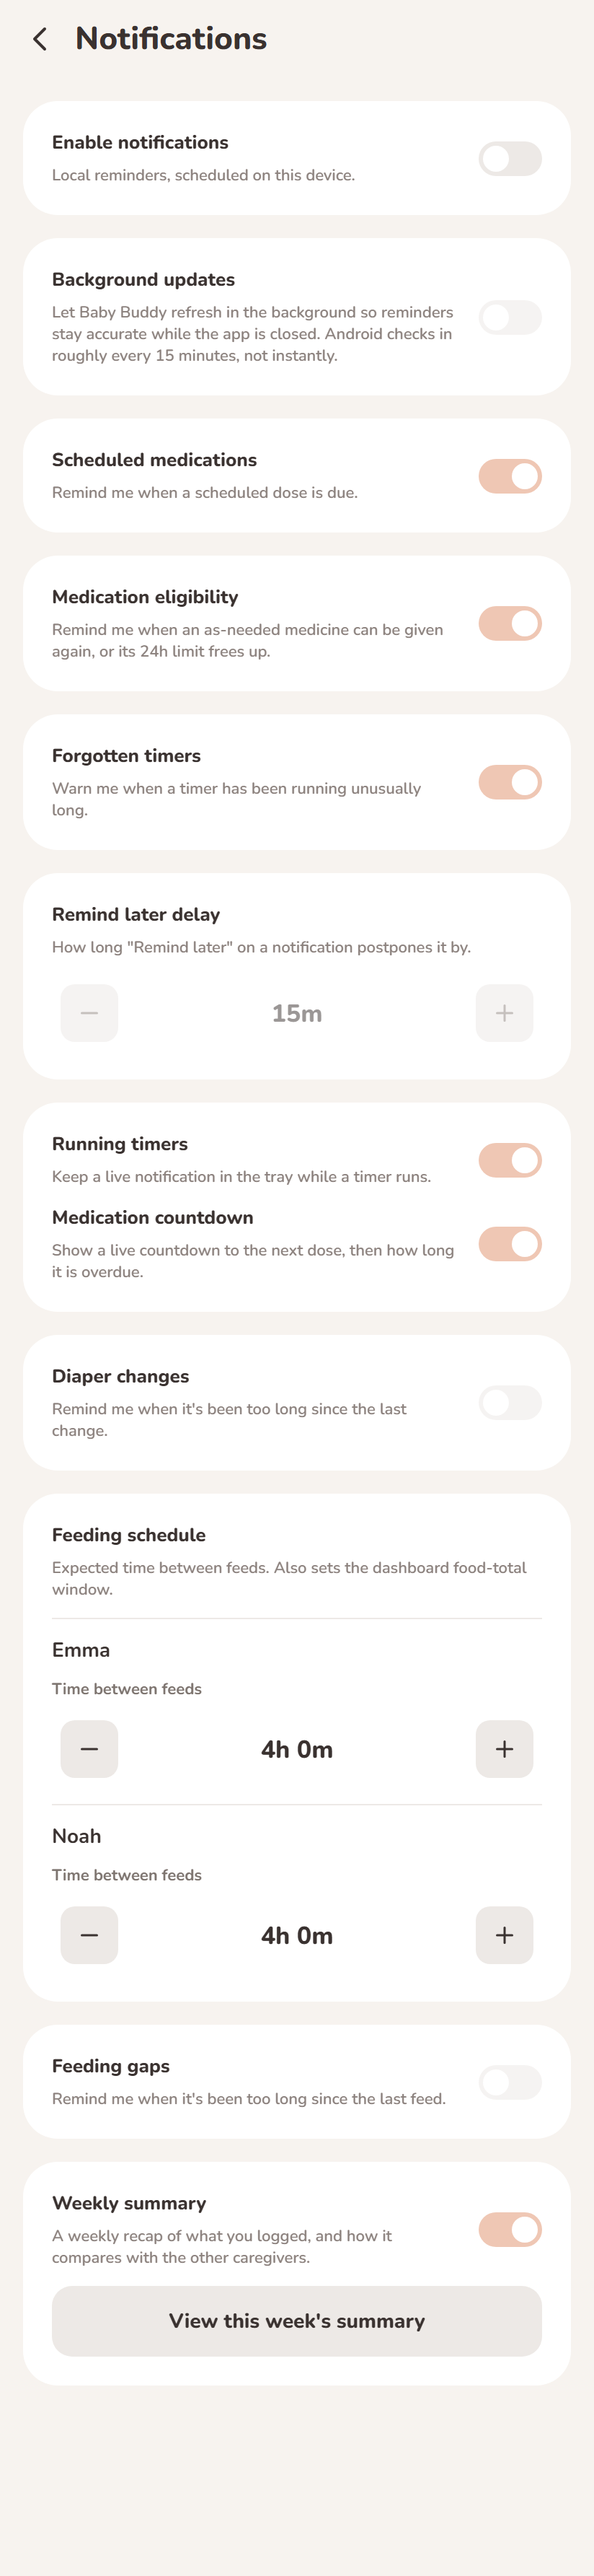
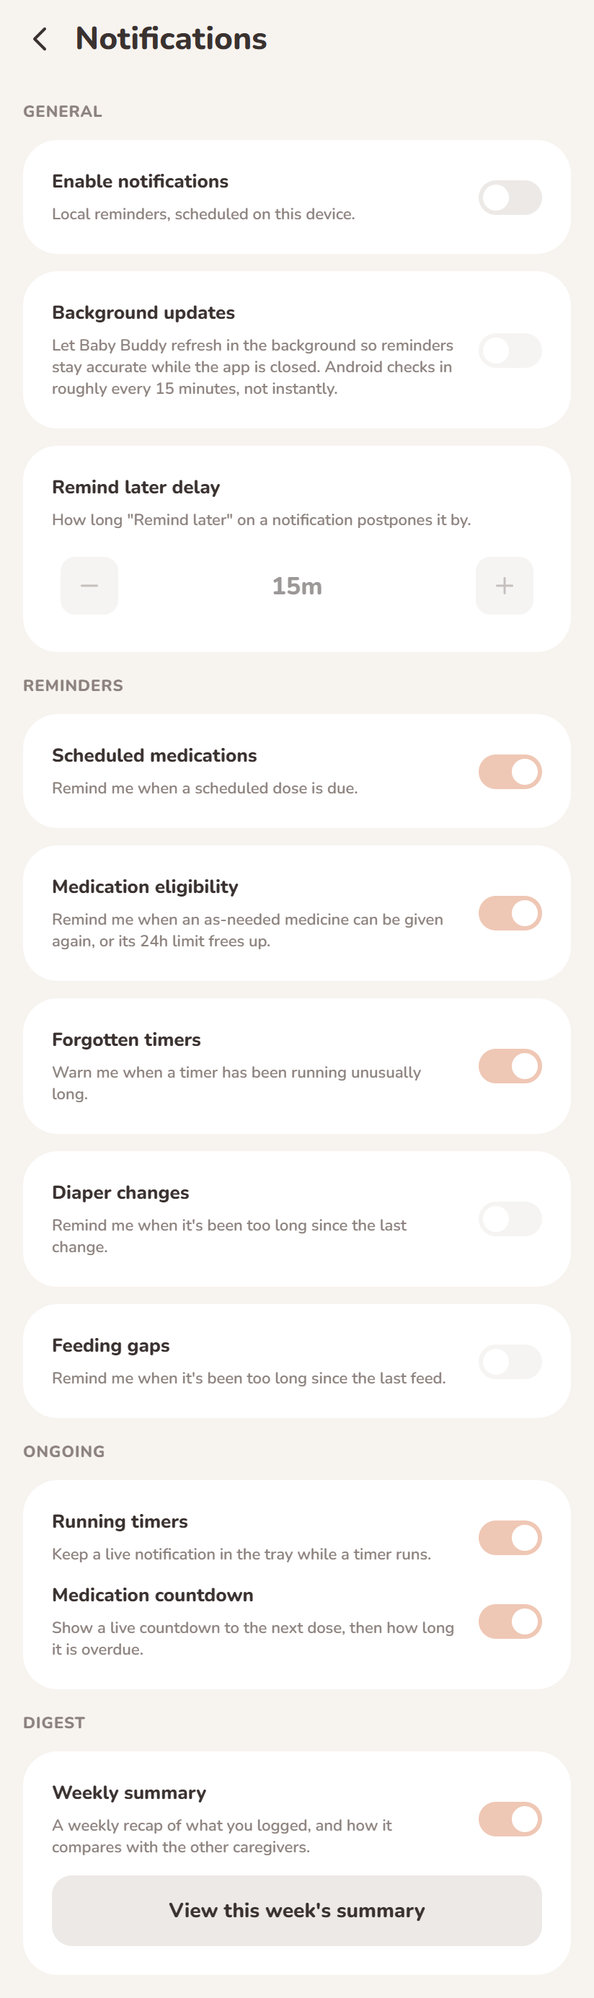
docs: regenerate settings screenshots for the new UI
Recapture the settings screenshots against the reorganized UI (light
theme, demo data): the main Settings screen (Display section), the
Notifications screen (General/Reminders/Ongoing/Digest groups), and the
retitled "Children & groups" screen. Add two new screenshots the manual
now references — the per-child editor and the About screen — and embed
them in the manual.

diff --git a/docs/USER_MANUAL.md b/docs/USER_MANUAL.md
@@ -230,6 +230,8 @@ Tapping a child opens a single screen for everything about that one child:
 - **Reminder timing** — the child's own feeding interval, diaper gap, and target amount (used when the matching reminder is turned on in Notifications).
 - **Schedule** — hide the child during a daily time window (see below).
 
+<p align="center"><img src="screenshots/23-kid-editor.png" alt="A child's editor: visibility, default food quantity, accent colour, group, reminder timing, and schedule" width="300"></p>
+
 ### Schedules
 
 A schedule hides a child during a **daily time window** on chosen **weekdays** (e.g. hide during nursery hours). A window that crosses midnight is supported; leaving weekdays empty means every day. The dashboard re‑checks schedules about once a minute, so a child appears/disappears at the boundary automatically.
@@ -254,6 +256,8 @@ The per‑child food default that the feeding gauge compares against now lives i
 ### About
 
 **Settings → About** gathers the app's credits, the installed **version** (tap it twice, or press and hold, to open that release's announcement), a link to this **user manual**, and quick links — web app, Google Play, discussions, privacy policy, report a bug, and source code. There's also a **Share this app** button to tell another caregiver about it.
+
+<p align="center"><img src="screenshots/24-about.png" alt="About screen: about me, about this app, version, links, and Share this app" width="300"></p>
 
 ## 11. Sharing your instance with another caregiver
 
